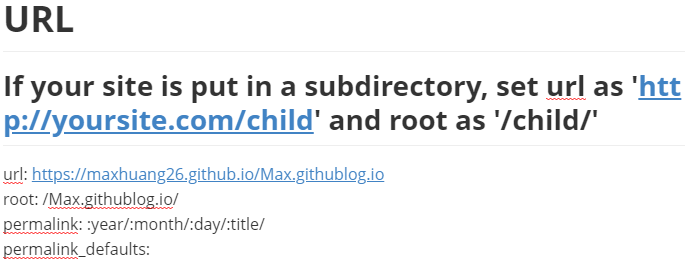
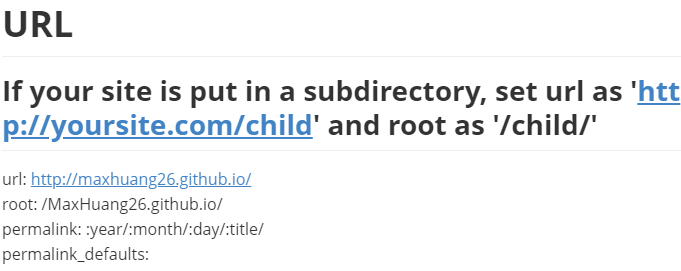
Site updated: 2019-07-08 15:16:03

Changed region(s): [[0.0, 0.2657, 1.0, 0.5314], [0.0, 0.6199, 0.5859, 0.9742], [0.0, 0.0, 0.1233, 0.1476]]

diff --git a/2019/07/08/搭建个人博客经验汇总/index.html b/2019/07/08/搭建个人博客经验汇总/index.html
@@ -22,7 +22,7 @@
 <meta property="og:image" content="http://maxhuang26.github.io/MaxHuang26.github.io/2019/07/08/搭建个人博客经验汇总/设置图片1.png">
 <meta property="og:image" content="http://maxhuang26.github.io/MaxHuang26.github.io/2019/07/08/搭建个人博客经验汇总/设置图片2.png">
 <meta property="og:image" content="http://maxhuang26.github.io/MaxHuang26.github.io/2019/07/08/搭建个人博客经验汇总/HEXO版本.png">
-<meta property="og:updated_time" content="2019-07-08T02:06:28.291Z">
+<meta property="og:updated_time" content="2019-07-08T07:15:46.121Z">
 <meta name="twitter:card" content="summary">
 <meta name="twitter:title" content="搭建个人博客经验汇总1.5">
 <meta name="twitter:description" content="本文尚未解决问题： 1、创建分支在不同电脑编辑文档； 2、插入图片时，加入图标题会出现图片裂纹的错误符号。        今天完全是一时兴起，想变着法子刺激自己把Java和安卓学得更扎实，就想到研究一下自己建立一个个人博客，定期把自己复习之前的笔记总结发上来。倒腾了一天先把自己碰到的问题尽可能的写下来吧。 准备工作         尝试了自己套用网上的模板之后发现效果不理想，因此转而使用no">
@@ -214,6 +214,7 @@
 <h2 id="遇到的问题及其解决方法"><a href="#遇到的问题及其解决方法" class="headerlink" title="遇到的问题及其解决方法"></a>遇到的问题及其解决方法</h2><p>        按照以上方法将网页部署到github之后发现主题样式不能正确显示，查询解决方法是修改_config.yml文件如下</p>
 <img src="/MaxHuang26.github.io/2019/07/08/搭建个人博客经验汇总/URL.png">
 
+<p>          一定要注意！URL不能是“https”,必须改成“http”,因为一般用户访问博客不可能通过SSL（安全套接层）访问，我的粗浅理解是https用于已注册用户，未注册用户直接http访问即可。</p>
 <p>          再次部署，问题解决，网页样式显示正常！</p>
 <h2 id="网页图片显示出现问题"><a href="#网页图片显示出现问题" class="headerlink" title="网页图片显示出现问题"></a>网页图片显示出现问题</h2><p>          点进本文发现，文章所使用的图片信息全部显示出错：</p>
 <p>         <img src="/MaxHuang26.github.io/2019/07/08/搭建个人博客经验汇总/图片显示错误.png"></p>
@@ -234,7 +235,7 @@
 <figure class="highlight plain"><table><tr><td class="gutter"><pre><span class="line">1</span><br></pre></td><td class="code"><pre><span class="line">&#123;% asset_img 1.jpg 这是一个新的博客的图片的说明 %&#125;</span><br></pre></td></tr></table></figure>
 
 <p>        asset_img是插入的固定语句，由于图片已经存在资源目录中，所以直接写文件名.文件格式即可，空格后的“这是一个新的博客的图片的说明”是图标题。但是在实际使用中发现，加了图表题后还是会产生一个图片的裂纹图像，因此本文暂时不添加图标题，后期再尝试改善这个问题。</p>
-<p>本文于2019.7.8重新修改编辑</p>
+<p>本文于2019.7.8 下午 重新修改编辑</p>
 
   </div>
 </article>
